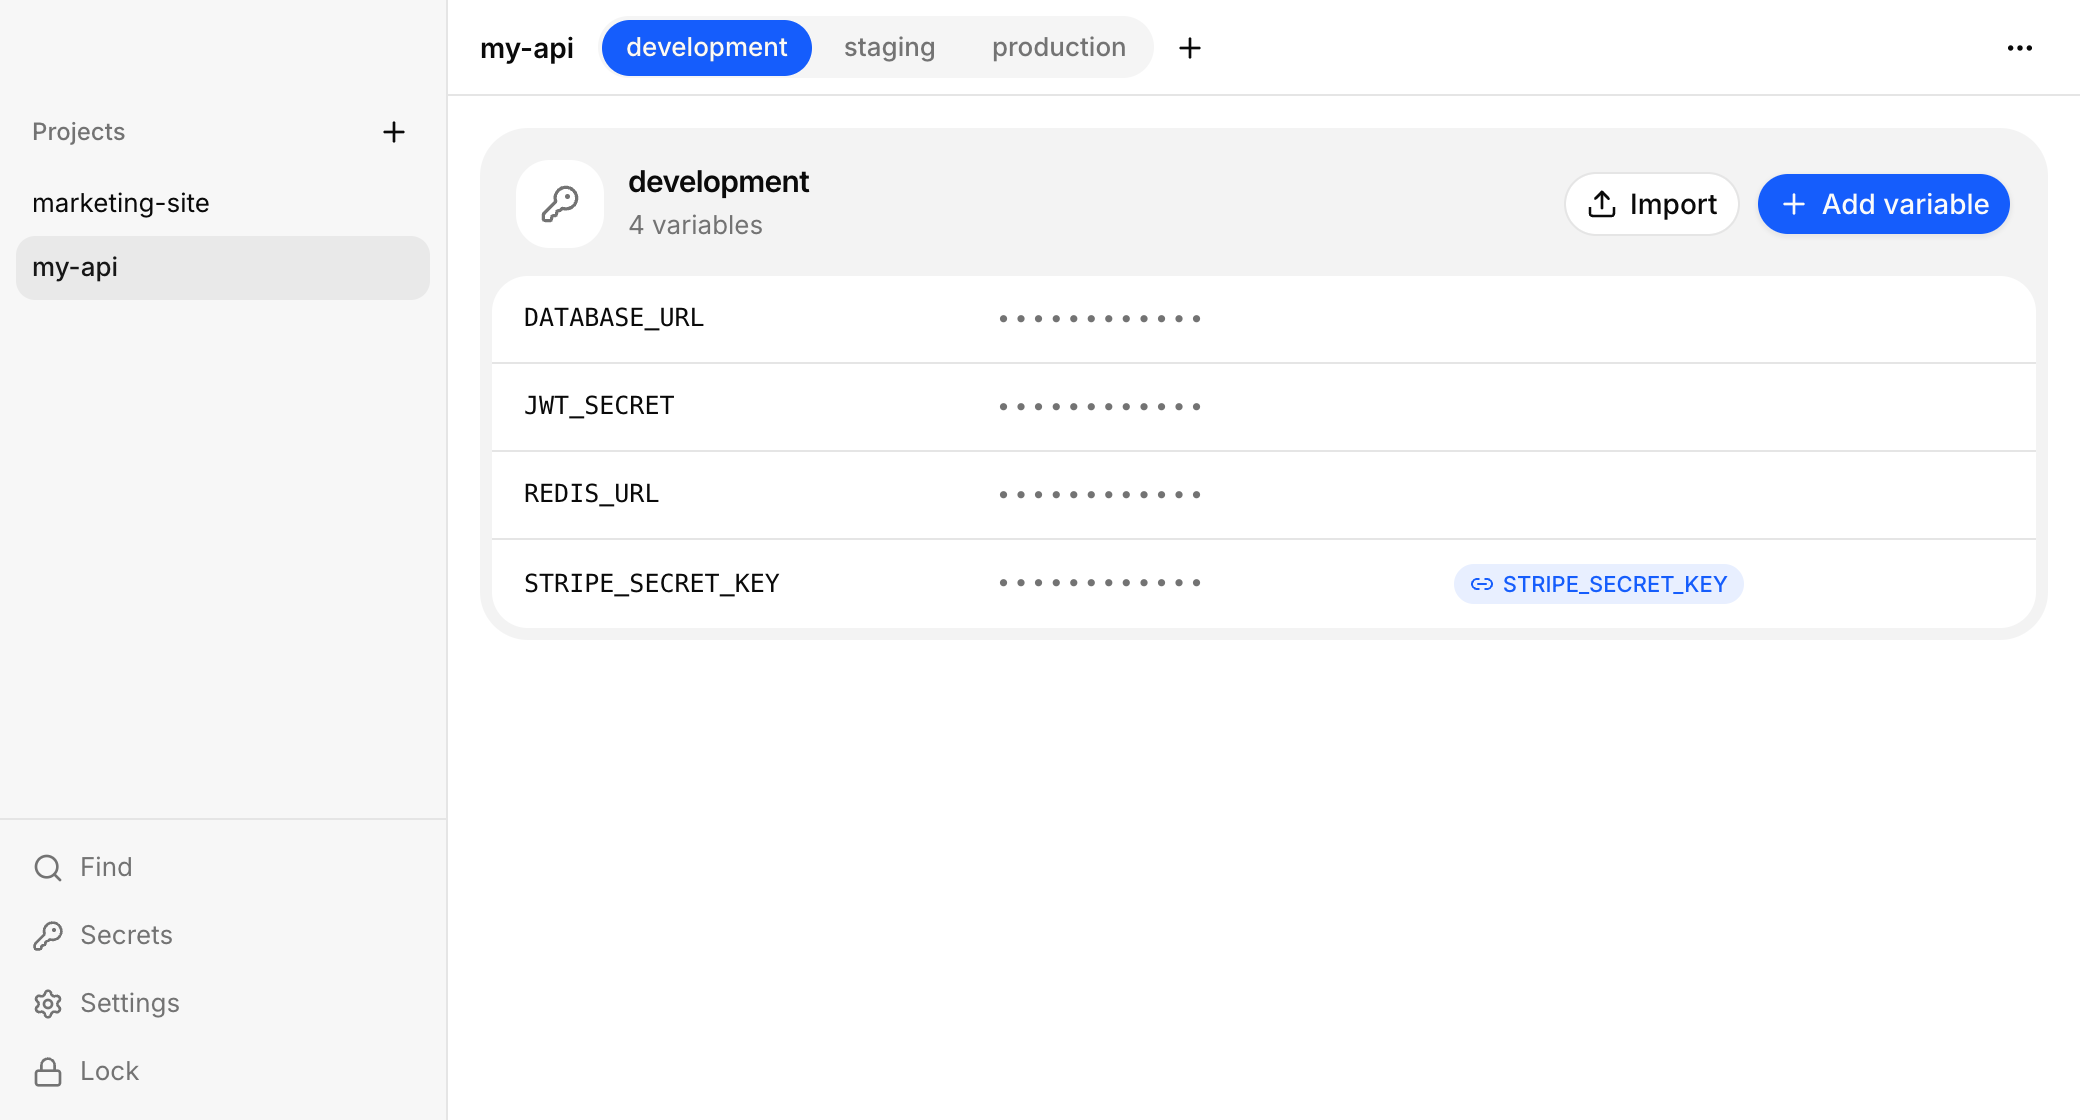
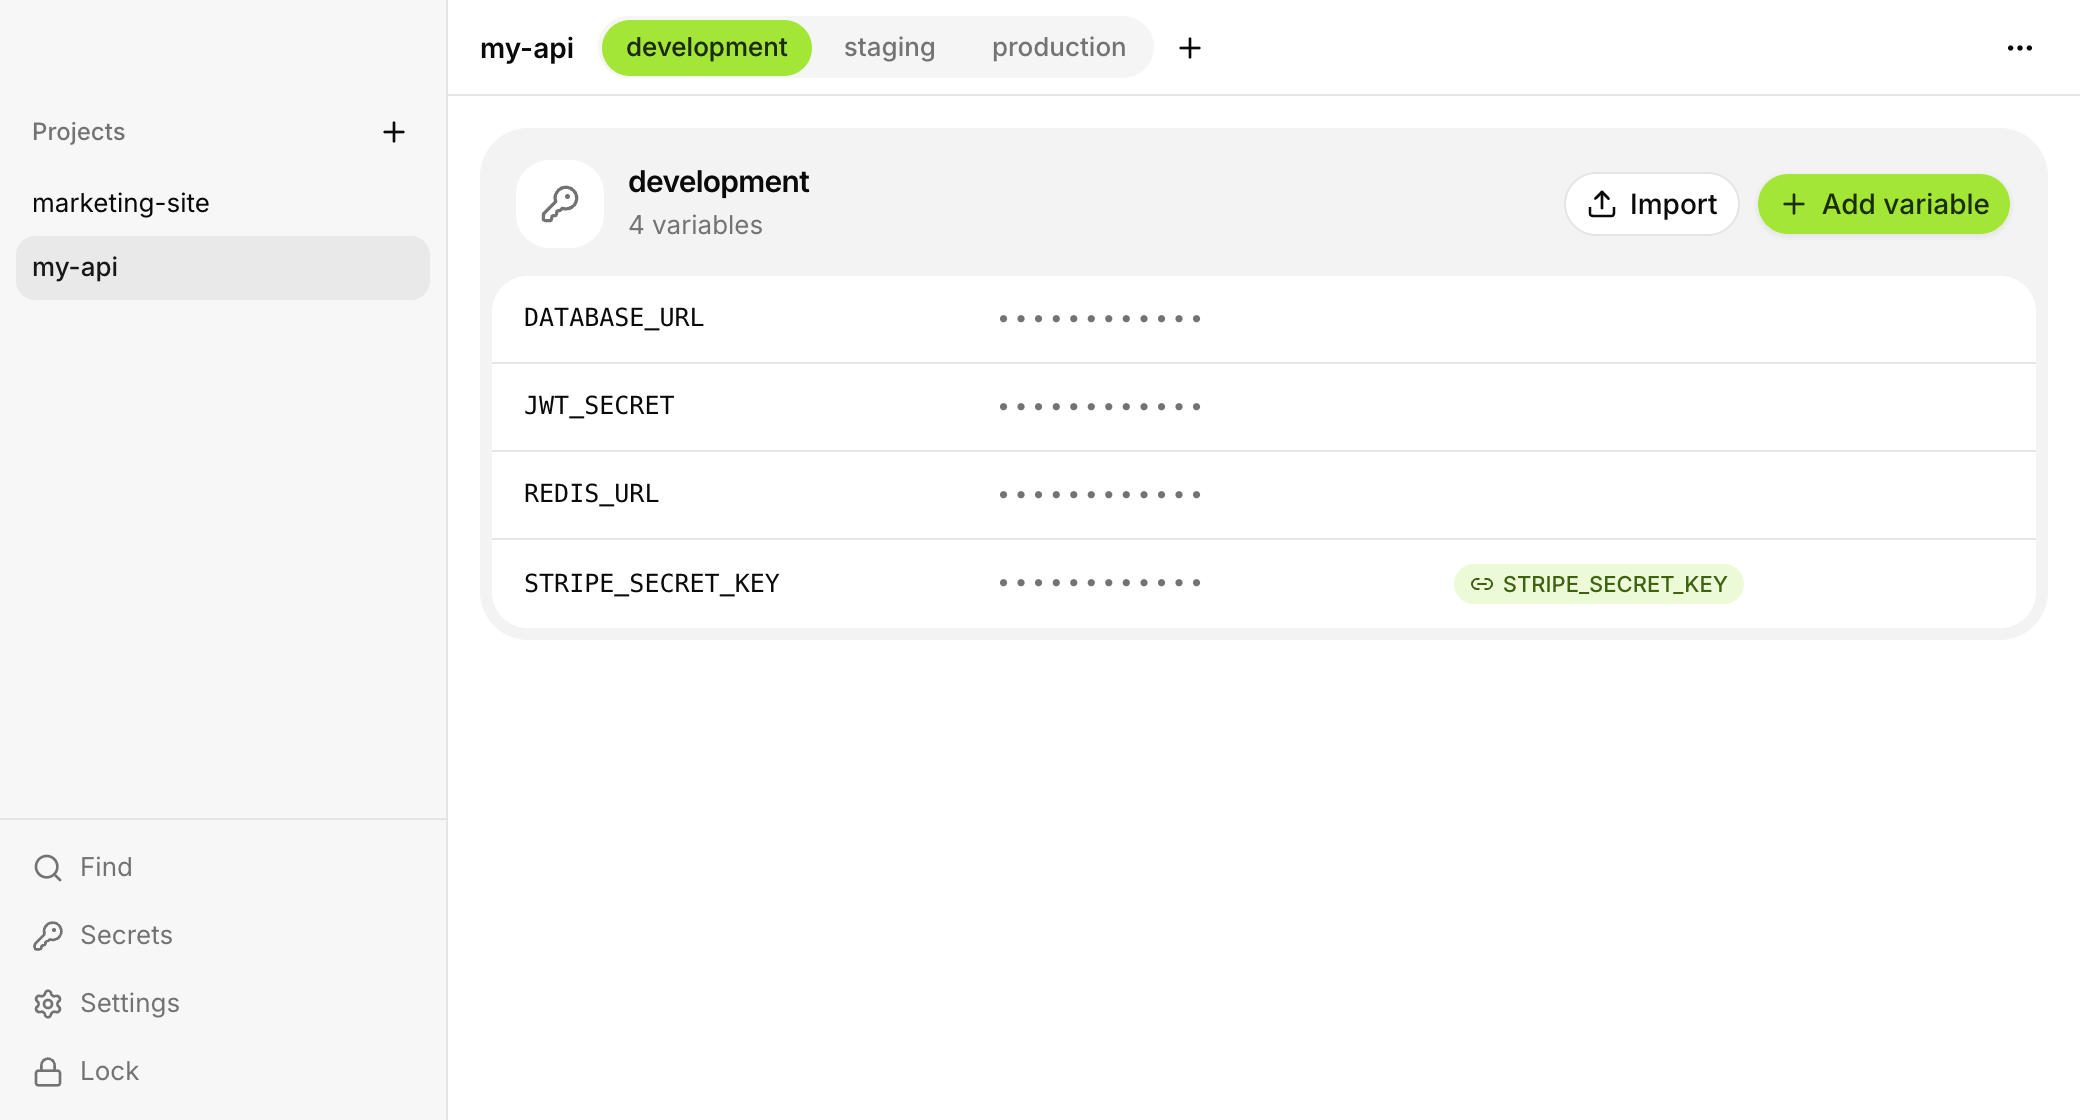
feat(web): acid lime primary colour and new app screenshot

Changed region(s): [[0.6875, 0.5, 0.8438, 0.5625], [0.2812, 0.0, 0.4062, 0.0938], [0.8438, 0.1562, 0.9688, 0.2188]]

diff --git a/apps/web/components/landing/AgentDemo.tsx b/apps/web/components/landing/AgentDemo.tsx
@@ -43,7 +43,7 @@ export function AgentDemo() {
       <div className="mt-4 flex h-8 items-center">
         <AnimatePresence mode="wait" initial={false}>
           {approved ? (
-            <motion.p key="ok" {...appear} className="flex items-center gap-1.5 text-xs font-medium text-ds-primary">
+            <motion.p key="ok" {...appear} className="flex items-center gap-1.5 text-xs font-medium text-ds-accent">
               <Fingerprint aria-hidden className="size-4" />
               Approved with Touch ID
             </motion.p>
@@ -69,13 +69,13 @@ export function AgentDemo() {
         <AnimatePresence initial={false}>
           {lines >= 1 && (
             <motion.p key="l1" {...appear} className="flex items-center gap-1.5 text-ds-muted">
-              <Check aria-hidden className="size-3.5 text-ds-primary" />
+              <Check aria-hidden className="size-3.5 text-ds-accent" />
               42 tests passed
             </motion.p>
           )}
           {lines >= 2 && (
             <motion.p key="l2" {...appear} className="truncate text-ds-muted">
-              charged card with <span className="rounded bg-ds-primary/10 px-1 text-ds-primary">[dotsafe:STRIPE_KEY]</span>
+              charged card with <span className="rounded bg-ds-primary/30 px-1 text-ds-accent">[dotsafe:STRIPE_KEY]</span>
             </motion.p>
           )}
         </AnimatePresence>

diff --git a/apps/web/app/global.css b/apps/web/app/global.css
@@ -2,8 +2,7 @@
 @import 'fumadocs-ui/css/neutral.css';
 @import 'fumadocs-ui/css/preset.css';
 
-/* The landing page: light only, in the desktop app's own colours (its light
-   theme in apps/desktop/src/index.css). The docs keep Fumadocs' themes. */
+/* The landing page: light only. The docs keep Fumadocs' themes. */
 @theme inline {
   --color-ds-bg: var(--ds-bg);
   --color-ds-fg: var(--ds-fg);
@@ -13,6 +12,7 @@
   --color-ds-line: var(--ds-line);
   --color-ds-primary: var(--ds-primary);
   --color-ds-primary-fg: var(--ds-primary-fg);
+  --color-ds-accent: var(--ds-accent);
 }
 
 .landing {
@@ -23,8 +23,12 @@
   --ds-shell: oklch(0.965 0 0);
   --ds-card: oklch(1 0 0);
   --ds-line: oklch(0.922 0 0);
-  --ds-primary: oklch(0.546 0.245 262.881);
-  --ds-primary-fg: oklch(0.985 0 0);
+  /* Acid lime: fills only (buttons, active states, dots), with dark text on top. */
+  --ds-primary: #a3e635;
+  --ds-primary-fg: #1a2e05;
+  /* Deep lime: the accent as text or a small icon on white, where lime itself
+     wouldn't be readable. */
+  --ds-accent: #3f6212;
   color-scheme: light;
   background: var(--ds-bg);
   color: var(--ds-fg);

diff --git a/apps/web/components/landing/EncryptDemo.tsx b/apps/web/components/landing/EncryptDemo.tsx
@@ -43,7 +43,7 @@ function Place({ icon, name, value, noisy }: { icon: React.ReactNode; name: stri
       <p className="flex items-center gap-2 text-xs text-ds-muted [&_svg]:size-4">
         {icon}
         {name}
-        {noisy && <Lock aria-hidden className="ml-auto text-ds-primary" />}
+        {noisy && <Lock aria-hidden className="ml-auto text-ds-accent" />}
       </p>
       <p className={`mt-3 truncate font-mono text-[13px] ${noisy ? 'text-ds-muted' : ''}`}>{value}</p>
     </div>
@@ -54,7 +54,7 @@ function Place({ icon, name, value, noisy }: { icon: React.ReactNode; name: stri
  * on wide screens, down on narrow ones, where the places stack. */
 function Flow({ reduce, delay = 0 }: { reduce: boolean; delay?: number }) {
   const travel = { duration: 1.4, repeat: Infinity, ease: 'easeInOut' as const, delay };
-  const dot = 'absolute size-1.5 rounded-full bg-ds-primary';
+  const dot = 'absolute size-1.5 rounded-full bg-ds-accent';
   return (
     <div aria-hidden className="relative mx-auto h-8 w-px bg-ds-line md:h-px md:w-12">
       {!reduce && (

diff --git a/apps/web/components/landing/ButtonLink.tsx b/apps/web/components/landing/ButtonLink.tsx
@@ -11,8 +11,8 @@ export function ButtonLink({
   return (
     <Link
       className={cn(
-        'inline-flex h-10 items-center justify-center gap-2 rounded-full px-5 text-sm font-medium transition-[background-color,color,border-color,transform] duration-200 outline-none focus-visible:ring-2 focus-visible:ring-ds-primary/50 active:scale-[0.98] [&_svg]:size-4',
-        variant === 'primary' && 'bg-ds-primary text-ds-primary-fg hover:bg-ds-primary/90',
+        'inline-flex h-10 items-center justify-center gap-2 rounded-full px-5 text-sm font-medium transition-[background-color,color,border-color,transform] duration-200 outline-none focus-visible:ring-2 focus-visible:ring-ds-accent/50 active:scale-[0.98] [&_svg]:size-4',
+        variant === 'primary' && 'bg-ds-primary text-ds-primary-fg hover:bg-ds-primary/85',
         variant === 'outline' && 'border border-ds-line bg-white/70 text-ds-fg backdrop-blur-sm hover:border-ds-fg/20',
         variant === 'ghost' && 'text-ds-muted hover:text-ds-fg',
         className,

diff --git a/apps/web/components/landing/Pricing.tsx b/apps/web/components/landing/Pricing.tsx
@@ -34,7 +34,7 @@ export function Pricing() {
           <Reveal
             key={plan.name}
             delay={i * 0.08}
-            className={`flex flex-col rounded-2xl border p-6 ${plan.primary ? 'border-ds-primary/40' : 'border-ds-line'}`}
+            className={`flex flex-col rounded-2xl border p-6 ${plan.primary ? 'border-ds-accent/40' : 'border-ds-line'}`}
           >
             <p className="text-sm font-medium">{plan.name}</p>
             <p className="mt-3 flex items-baseline gap-1.5">
@@ -44,7 +44,7 @@ export function Pricing() {
             <ul className="mt-6 flex flex-1 flex-col gap-2.5 text-sm">
               {plan.perks.map((perk) => (
                 <li key={perk} className="flex items-center gap-2.5">
-                  <Check aria-hidden className="size-4 text-ds-primary" />
+                  <Check aria-hidden className="size-4 text-ds-accent" />
                   {perk}
                 </li>
               ))}

diff --git a/apps/web/components/landing/RotationDemo.tsx b/apps/web/components/landing/RotationDemo.tsx
@@ -57,7 +57,7 @@ export function RotationDemo() {
               <span className="flex size-5 items-center justify-center">
                 {updated ? (
                   <motion.span key={`${round}-${shown}`} initial={{ scale: 0.6, opacity: 0 }} animate={{ scale: 1, opacity: 1 }} transition={{ duration: 0.3, ease: EASE }}>
-                    <Check aria-hidden className="size-4 text-ds-primary" />
+                    <Check aria-hidden className="size-4 text-ds-accent" />
                   </motion.span>
                 ) : (
                   <LoaderCircle aria-hidden className="size-4 animate-spin text-ds-muted" />

diff --git a/apps/web/components/landing/TerminalDemo.tsx b/apps/web/components/landing/TerminalDemo.tsx
@@ -55,7 +55,7 @@ export function TerminalDemo() {
           return (
             <div key={entry.cmd} className={i ? 'mt-1.5' : undefined}>
               <p className="whitespace-pre">
-                <span className="text-ds-primary select-none">$ </span>
+                <span className="text-ds-accent select-none">$ </span>
                 {typing ? entry.cmd.slice(0, shown.chars) : entry.cmd}
                 {typing && <span className="ml-px inline-block h-4 w-[7px] translate-y-[3px] animate-pulse bg-ds-fg/70" />}
               </p>

diff --git a/apps/web/lib/motion.ts b/apps/web/lib/motion.ts
@@ -7,5 +7,5 @@ export const fadeUp = {
   shown: { opacity: 1, y: 0, transition: { duration: 0.7, ease: EASE } },
 };
 
-/** The brand colours the shader blends, light to dotsafe blue. */
-export const SHADER_COLORS = ['#ffffff', '#dbe7ff', '#8ec5ff', '#155dfc'];
+/** The brand colours the shader blends, white to acid lime. */
+export const SHADER_COLORS = ['#ffffff', '#ecfccb', '#bef264', '#84cc16'];
